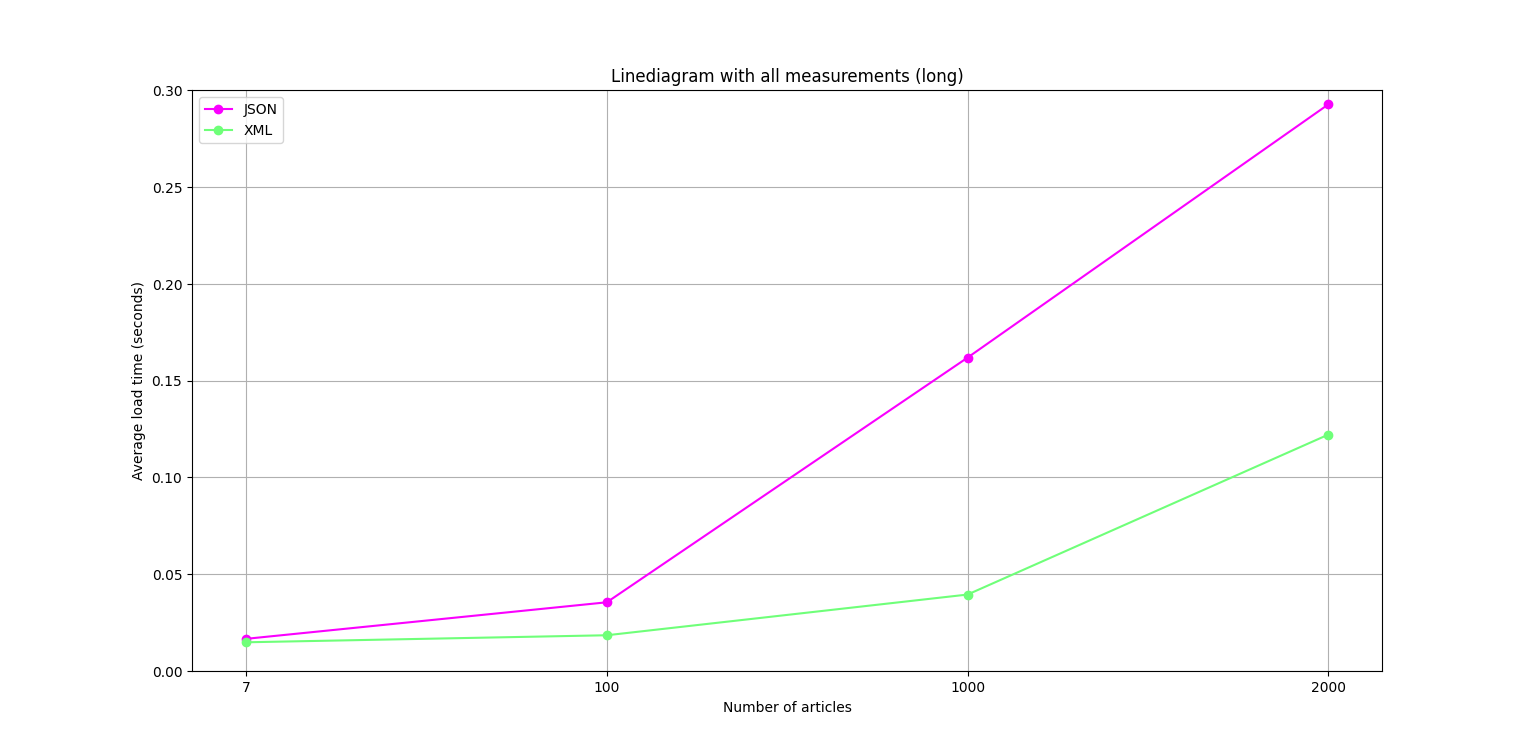
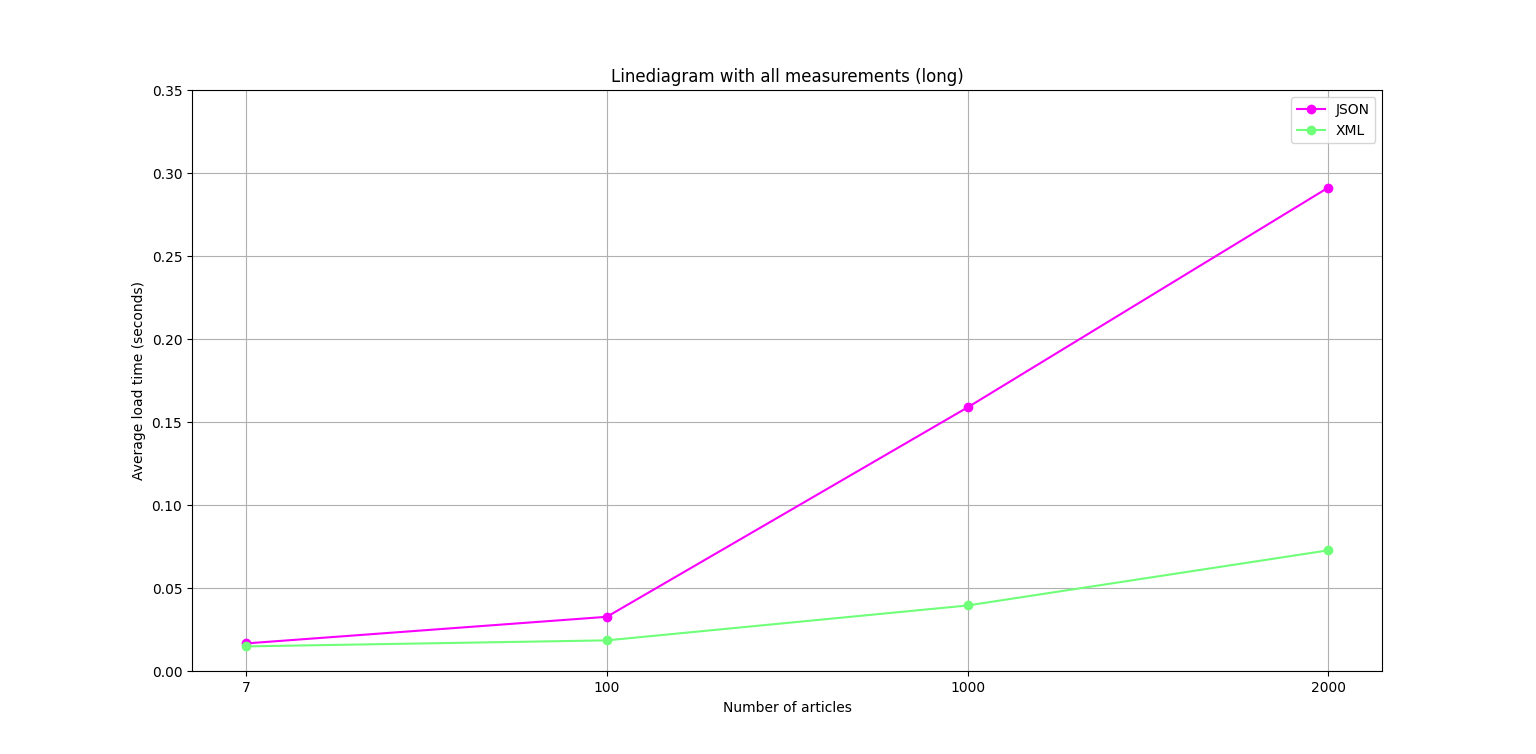
Updated y-axis for diagrams

diff --git a/PythonScripts/histograms/histogram(long).py b/PythonScripts/histograms/histogram(long).py
@@ -53,7 +53,7 @@ def barChars():
     plt.legend()
 
     # Set the y-axis limit
-    plt.ylim(0, 0.3)  # Adjusted for seconds
+    plt.ylim(0, 0.35)  # Adjusted for seconds
 
     plt.show()
 

diff --git a/PythonScripts/histograms/histogram(mixed).py b/PythonScripts/histograms/histogram(mixed).py
@@ -53,7 +53,7 @@ def barChars():
     plt.legend()
 
     # Set the y-axis limit
-    plt.ylim(0, 0.3)  # Adjusted for seconds
+    plt.ylim(0, 0.35)  # Adjusted for seconds
 
     plt.show()
 

diff --git a/PythonScripts/histograms/histogram(small).py b/PythonScripts/histograms/histogram(small).py
@@ -53,7 +53,7 @@ def barChars():
     plt.legend()
 
     # Set the y-axis limit
-    plt.ylim(0, 0.3)  # Adjusted for seconds
+    plt.ylim(0, 0.35)  # Adjusted for seconds
 
     plt.show()
 

diff --git a/PythonScripts/linediagrams/linediagram(long).py b/PythonScripts/linediagrams/linediagram(long).py
@@ -37,7 +37,7 @@ def lineChart():
     plt.grid(True)
 
     # Set the y-axis limit
-    plt.ylim(0, 0.3)
+    plt.ylim(0, 0.35)
 
     plt.show()
 

diff --git a/PythonScripts/linediagrams/linediagram(mixed).py b/PythonScripts/linediagrams/linediagram(mixed).py
@@ -37,7 +37,7 @@ def lineChart():
     plt.grid(True)
 
     # Set the y-axis limit
-    plt.ylim(0, 0.3)
+    plt.ylim(0, 0.35)
 
     plt.show()
 

diff --git a/PythonScripts/linediagrams/linediagram(small).py b/PythonScripts/linediagrams/linediagram(small).py
@@ -37,7 +37,7 @@ def lineChart():
     plt.grid(True)
 
     # Set the y-axis limit
-    plt.ylim(0, 0.3)
+    plt.ylim(0, 0.35)
 
     plt.show()
 
